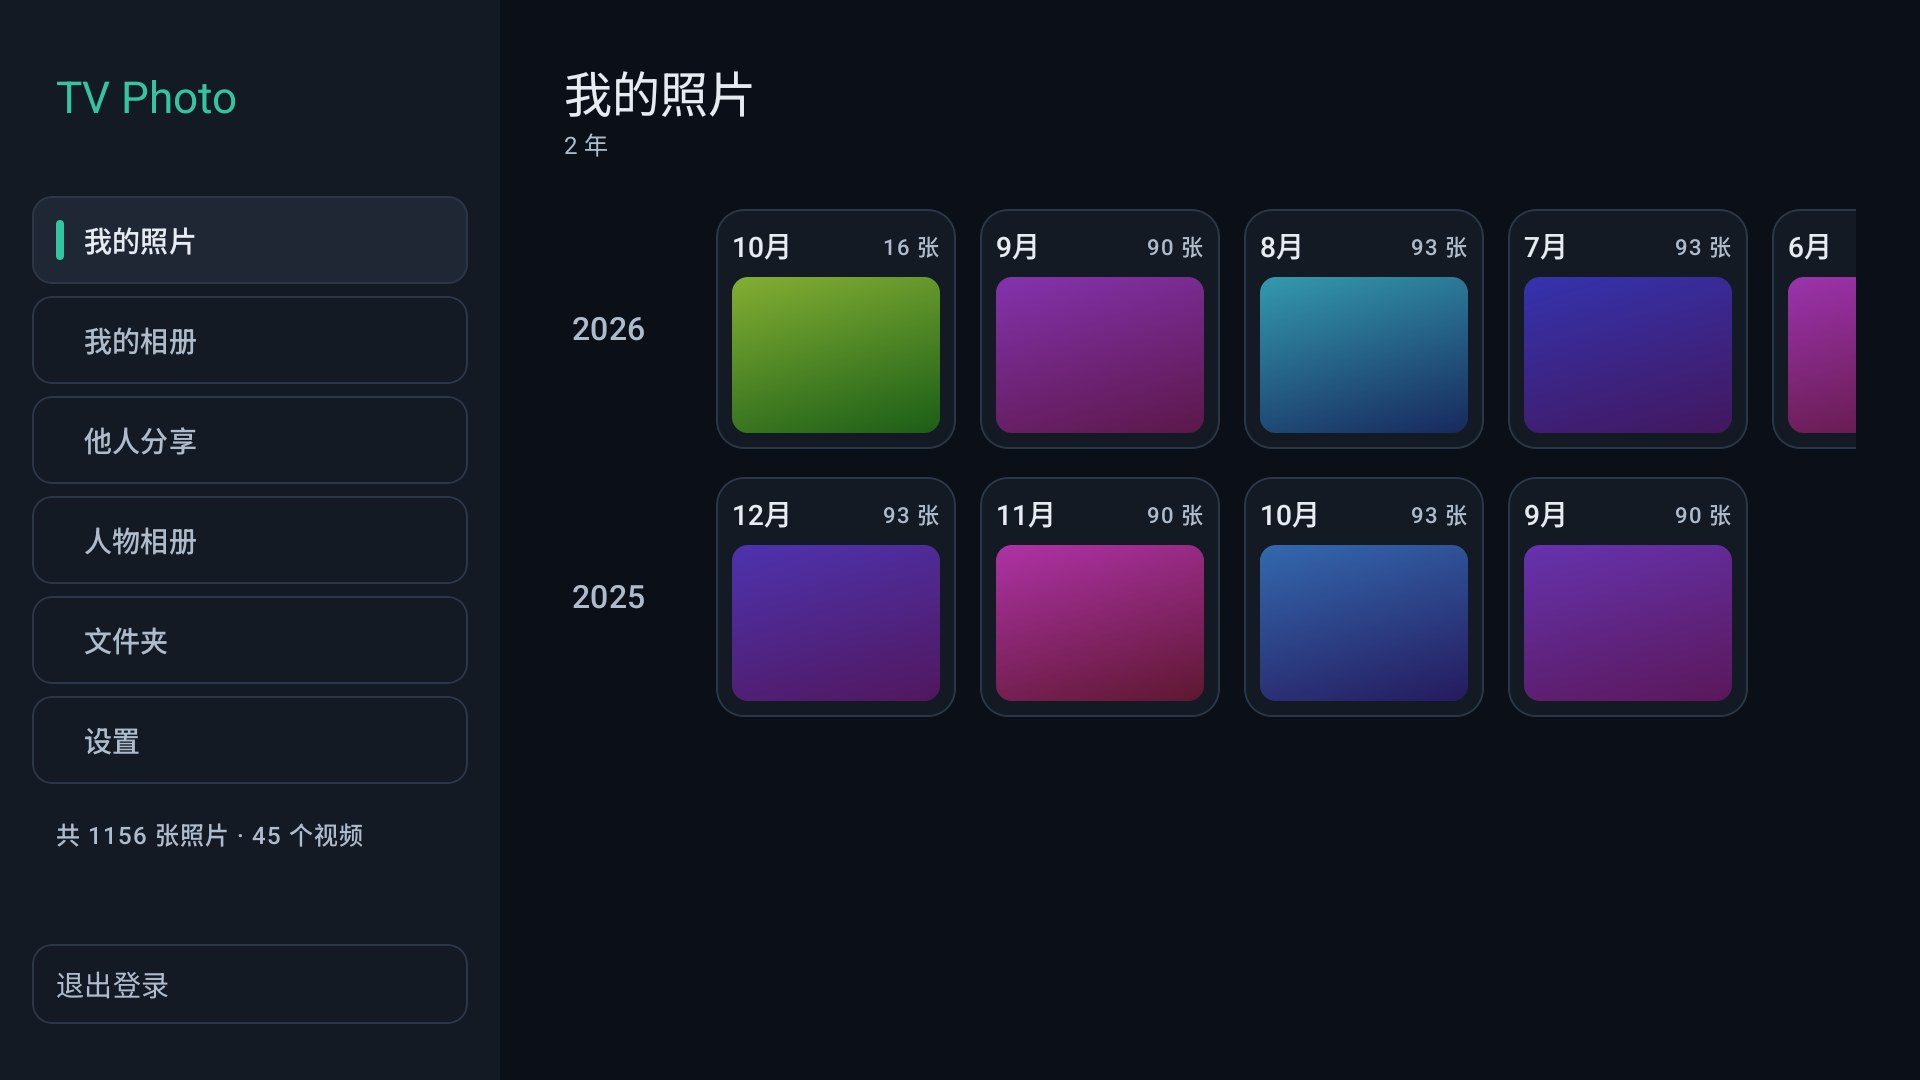
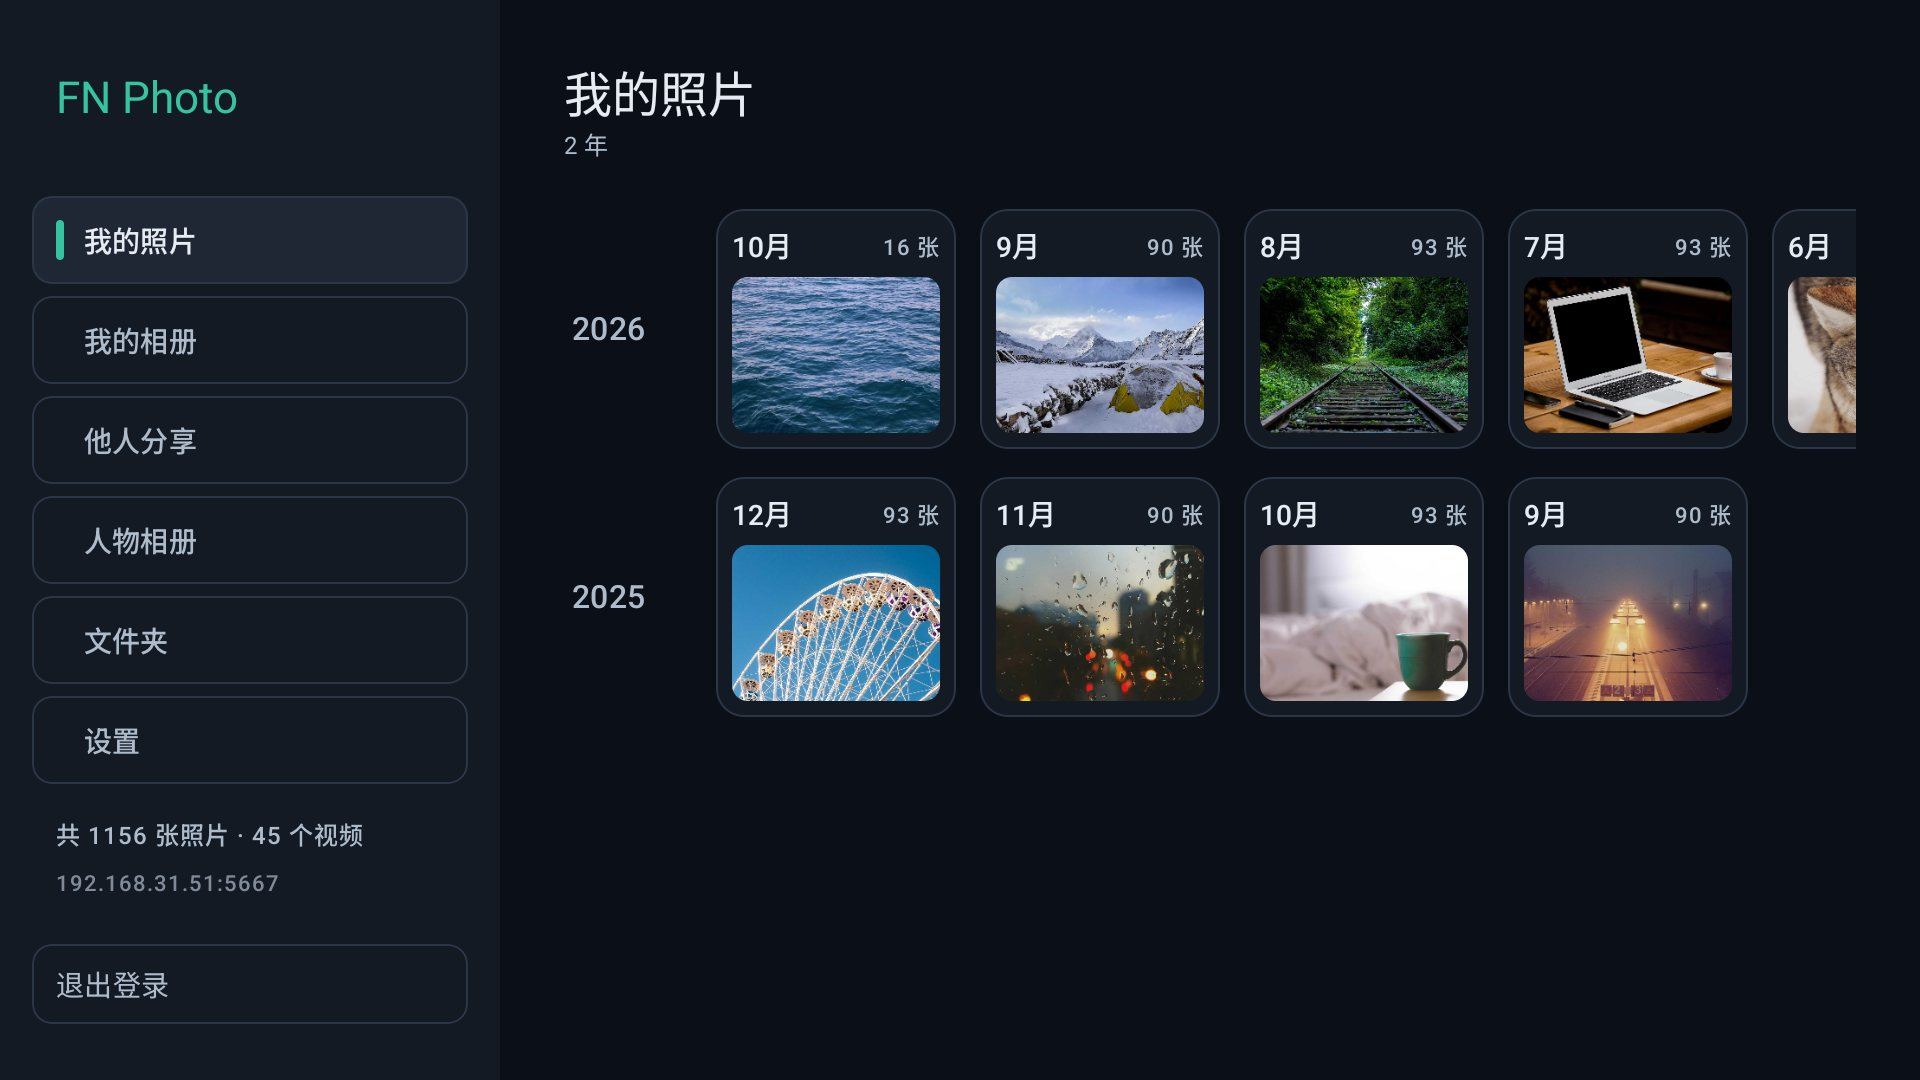
Refresh the forum post for FN Photo 1.2, with real photographs in the mock
The post's figures were regenerated against a mock that serves real photographs
rather than one painted gradient per photo, and the READMEs point at the new
files.

- docs/forum-post-fnnas.txt reworked around the 1.2 feature set
- 19 forum screenshots added, the five superseded ones removed
- fetch-photos.js added: it downloads one rendition per thumbnail size the mock
  advertises and writes manifest.json and CREDITS.md beside them
- the fetched renditions are ignored rather than committed (~12 MB, and the
  script is the source of truth); the mock falls back to gradients without them

diff --git a/tools/mock-nas/fetch-photos.js b/tools/mock-nas/fetch-photos.js
@@ -1,0 +1,232 @@
+'use strict';
+
+/*
+ * Downloads the mock NAS's test photos.
+ *
+ * The mock used to paint a gradient per photo id, which is fine for asserting that a
+ * thumbnail arrived and useless the moment a screenshot is meant to be shown to
+ * anyone. These are real photographs instead, so the emulator screenshots used in
+ * README.md and in the forum post look like a photo library.
+ *
+ *   node fetch-photos.js                    # fill in whatever is missing
+ *   node fetch-photos.js --count 60 --force # re-download everything
+ *   node fetch-photos.js --list-only        # just print what the catalogue holds
+ *
+ * Source: Lorem Picsum (https://picsum.photos), which serves Unsplash photographs.
+ * Licence: the Unsplash Licence — free to use, commercial or not, no permission and
+ * no attribution required (crediting the photographer is still good manners, so
+ * `CREDITS.md` is written next to the files). See CREDITS.md for per-photo sources.
+ *
+ * Every rendition is fetched from Picsum at the exact pixel size the mock advertises
+ * in SIZE_MAP, so nothing here needs an image library: Picsum does the cropping and
+ * the scaling, and we keep the bytes a real fnOS server would send for that size.
+ */
+
+const https = require('https');
+const fs = require('fs');
+const path = require('path');
+
+const PHOTO_DIR = path.join(__dirname, 'assets', 'photos');
+const MANIFEST = path.join(PHOTO_DIR, 'manifest.json');
+const CREDITS = path.join(PHOTO_DIR, 'CREDITS.md');
+
+// Mirror of SIZE_MAP in server.js. `o` is the original the viewer opens; the rest are
+// the server-side thumbnails a grid asks for.
+const SIZES = {
+  xxs: [107, 60],
+  xs: [320, 180],
+  s: [427, 240],
+  m: [960, 540],
+  o: [1280, 720],
+};
+
+// Square crop for the AI face-cluster avatars in the 人物 section.
+const FACE = [240, 240];
+
+// Landscape-or-better originals only: these land in a 16:9 grid, and a portrait
+// photo cropped to 16:9 throws away most of what the photographer framed.
+const MIN_ASPECT = 1.3;
+const MIN_WIDTH = 1600;
+
+function arg(name, fallback) {
+  const i = process.argv.indexOf(`--${name}`);
+  return i >= 0 && process.argv[i + 1] && !process.argv[i + 1].startsWith('--') ? process.argv[i + 1] : fallback;
+}
+const flag = (name) => process.argv.includes(`--${name}`);
+
+const COUNT = Number(arg('count', 60));
+const CONCURRENCY = Number(arg('concurrency', 6));
+const FORCE = flag('force');
+
+function get(url, { binary = false, redirects = 5 } = {}) {
+  return new Promise((resolve, reject) => {
+    const req = https.get(
+      url,
+      { headers: { 'User-Agent': 'tvphoto-mock-testdata/1.0 (+https://picsum.photos)' } },
+      (res) => {
+        if (res.statusCode >= 300 && res.statusCode < 400 && res.headers.location && redirects > 0) {
+          res.resume();
+          return resolve(get(new URL(res.headers.location, url).toString(), { binary, redirects: redirects - 1 }));
+        }
+        if (res.statusCode !== 200) {
+          res.resume();
+          return reject(new Error(`HTTP ${res.statusCode} for ${url}`));
+        }
+        const chunks = [];
+        res.on('data', (c) => chunks.push(c));
+        res.on('end', () => {
+          const buf = Buffer.concat(chunks);
+          resolve(binary ? buf : buf.toString('utf8'));
+        });
+      },
+    );
+    req.on('error', reject);
+    req.setTimeout(45000, () => req.destroy(new Error(`timeout for ${url}`)));
+  });
+}
+
+async function retry(label, fn, attempts = 4) {
+  let last;
+  for (let i = 1; i <= attempts; i++) {
+    try {
+      return await fn();
+    } catch (e) {
+      last = e;
+      if (i < attempts) await new Promise((r) => setTimeout(r, 400 * i));
+    }
+  }
+  throw new Error(`${label}: ${last.message}`);
+}
+
+/** The whole Picsum catalogue, in catalogue order, so the choice is reproducible. */
+async function catalogue() {
+  const all = [];
+  for (let page = 1; page <= 12; page++) {
+    const body = await retry(`list page ${page}`, () =>
+      get(`https://picsum.photos/v2/list?page=${page}&limit=100`));
+    const page_ = JSON.parse(body);
+    if (!page_.length) break;
+    all.push(...page_);
+  }
+  return all;
+}
+
+function pick(list, count) {
+  const usable = list.filter((p) => p.width / p.height >= MIN_ASPECT && p.width >= MIN_WIDTH);
+  if (usable.length <= count) return usable;
+  // Even stride rather than the first N: Picsum's catalogue is ordered by upload, and
+  // the first sixty entries are one photographer's afternoon.
+  const stride = usable.length / count;
+  const picked = [];
+  for (let i = 0; i < count; i++) picked.push(usable[Math.floor(i * stride)]);
+  return picked;
+}
+
+async function downloadOne(entry, dir) {
+  const jobs = [];
+  for (const [size, [w, h]] of Object.entries(SIZES)) {
+    const file = path.join(dir, `${size}.jpg`);
+    if (!FORCE && fs.existsSync(file) && fs.statSync(file).size > 1024) continue;
+    jobs.push(
+      retry(`${entry.id}/${size}`, async () => {
+        const buf = await get(`https://picsum.photos/id/${entry.id}/${w}/${h}.jpg`, { binary: true });
+        if (buf.length < 1024) throw new Error(`suspiciously small (${buf.length} bytes)`);
+        fs.writeFileSync(file, buf);
+        return buf.length;
+      }),
+    );
+  }
+  const faceFile = path.join(dir, 'face.jpg');
+  if (FORCE || !fs.existsSync(faceFile) || fs.statSync(faceFile).size < 1024) {
+    jobs.push(
+      retry(`${entry.id}/face`, async () => {
+        const buf = await get(`https://picsum.photos/id/${entry.id}/${FACE[0]}/${FACE[1]}.jpg`, { binary: true });
+        if (buf.length < 1024) throw new Error(`suspiciously small (${buf.length} bytes)`);
+        fs.writeFileSync(faceFile, buf);
+        return buf.length;
+      }),
+    );
+  }
+  await Promise.all(jobs);
+  // A directory that claims to be complete must actually be complete: a half-filled
+  // one is served happily by server.js and shows up as a broken tile in a screenshot.
+  const missing = Object.keys(SIZES).filter((s) => !fs.existsSync(path.join(dir, `${s}.jpg`)));
+  if (missing.length) throw new Error(`${entry.id}: missing ${missing.join(', ')}`);
+  if (!fs.existsSync(faceFile)) throw new Error(`${entry.id}: missing face.jpg`);
+}
+
+function writeCredits(entries) {
+  const lines = [
+    '# Test photos',
+    '',
+    'Real photographs served by `tools/mock-nas` in place of the old per-id gradient, so the',
+    'emulator screenshots in `README.md` and `artifacts/forum/` look like a photo library.',
+    '',
+    '**Source:** [Lorem Picsum](https://picsum.photos) (photographs from [Unsplash](https://unsplash.com)).',
+    '**Licence:** the [Unsplash Licence](https://unsplash.com/license) — free to use for commercial and',
+    'non-commercial purposes, no permission or attribution required. Credit is given below anyway.',
+    '',
+    'Downloaded at the exact pixel sizes the mock advertises (`xxs` 107×60, `xs` 320×180,',
+    '`s` 427×240, `m` 960×540, `o` 1280×720, plus a 240×240 square for the face-cluster',
+    'avatars), so the bytes on the wire are the ones a real server would send for that size.',
+    '',
+    '| # | Picsum id | Photographer | Source |',
+    '| --- | --- | --- | --- |',
+  ];
+  entries.forEach((e, i) => lines.push(`| ${i + 1} | ${e.id} | ${e.author} | ${e.url} |`));
+  lines.push('', `Regenerate with \`node fetch-photos.js\` (see the header of that script).`, '');
+  fs.writeFileSync(CREDITS, lines.join('\n'), 'utf8');
+}
+
+(async () => {
+  fs.mkdirSync(PHOTO_DIR, { recursive: true });
+  const all = await catalogue();
+  const chosen = pick(all, COUNT);
+  console.log(`catalogue ${all.length}, landscape ${all.filter((p) => p.width / p.height >= MIN_ASPECT && p.width >= MIN_WIDTH).length}, chosen ${chosen.length}`);
+
+  if (flag('list-only')) {
+    chosen.forEach((e) => console.log(`${e.id}\t${e.author}\t${e.url}`));
+    return;
+  }
+
+  let done = 0;
+  let failed = 0;
+  const queue = chosen.slice();
+  const workers = Array.from({ length: CONCURRENCY }, async () => {
+    for (;;) {
+      const entry = queue.shift();
+      if (!entry) return;
+      const dir = path.join(PHOTO_DIR, String(entry.id));
+      try {
+        fs.mkdirSync(dir, { recursive: true });
+        await downloadOne(entry, dir);
+        done++;
+        process.stdout.write(`\r  ${done + failed}/${chosen.length}  id ${entry.id} by ${entry.author}          `);
+      } catch (e) {
+        failed++;
+        fs.rmSync(dir, { recursive: true, force: true });
+        console.log(`\n  FAILED id ${entry.id}: ${e.message}`);
+      }
+    }
+  });
+  await Promise.all(workers);
+  process.stdout.write('\n');
+
+  const kept = chosen.filter((e) => fs.existsSync(path.join(PHOTO_DIR, String(e.id), 'o.jpg')));
+  fs.writeFileSync(
+    MANIFEST,
+    JSON.stringify({ source: 'https://picsum.photos', licence: 'Unsplash Licence', count: kept.length, photos: kept }, null, 2) + '\n',
+    'utf8',
+  );
+  writeCredits(kept);
+
+  const bytes = kept.reduce((sum, e) => {
+    const dir = path.join(PHOTO_DIR, String(e.id));
+    return sum + fs.readdirSync(dir).reduce((s, f) => s + fs.statSync(path.join(dir, f)).size, 0);
+  }, 0);
+  console.log(`  ${kept.length} usable photos, ${(bytes / 1048576).toFixed(1)} MB, manifest + CREDITS.md written`);
+  if (failed) {
+    console.log(`  ${failed} failed — rerun to fill the gaps`);
+    process.exitCode = 1;
+  }
+})();

diff --git a/README.md b/README.md
@@ -6,7 +6,7 @@
 
 它对接的是飞牛相册自己的接口 —— 也就是官方 App 用的那一套 —— 所以拿到的是真正的时间线、相册、文件夹、服务端缩略图、Live Photo 和视频串流，而不是把 NAS 当成一个笨拙的文件共享。
 
-![时间线](artifacts/screenshots/22-autologin-restart.png)
+![时间线](artifacts/screenshots/forum-01-timeline.png)
 
 ## 功能
 
@@ -146,6 +146,8 @@ tools/
   mock-nas/           一个强制实施真实认证规则的飞牛模拟服务器，另有
                       若干开关用于制造与时间和变更相关的行为
                       （慢速媒体、增删照片、固定某种签名规则）
+    fetch-photos.js   拉取它要发的测试照片（真照片，不是渐变色块）
+    assets/photos/    这些照片本身，按每种缩略图尺寸各存一份，附 CREDITS.md
 docs/fnos-photo-api.md   逆向出来的协议，附证据
 ```
 
@@ -153,7 +155,7 @@ docs/fnos-photo-api.md   逆向出来的协议，附证据
 
 在这里没有办法拿封闭协议对着真机做单元测试，所以验证是刻意搭起来的：
 
-1. **一个真正强制实施规则的飞牛模拟服务器** —— `tools/mock-nas`。和参考项目自带的 mock 不同，它会校验 `authx` 签名、拒绝数字形式的 `si`，并且可以在运行时被固定到任一签名规则。它同时提供**两种**传输：5666 上的明文（`verify.js` 驱动的就是它，也是最容易直接读原始流量的）和 **5667** 上的 TLS，用的是自签名 `O=fnOS CN=fnOS` 证书、`subjectAltName` 为 `DNS:fnOS` —— 与真实 NAS 呈现的形状一致，所以客户端的首次使用信任路径是被真正走了一遍，而不是绕过。把应用指向 `10.0.2.2:5667` 即可对着这个 mock 运行。
+1. **一个真正强制实施规则的飞牛模拟服务器** —— `tools/mock-nas`。和参考项目自带的 mock 不同，它会校验 `authx` 签名、拒绝数字形式的 `si`，并且可以在运行时被固定到任一签名规则。它同时提供**两种**传输：5666 上的明文（`verify.js` 驱动的就是它，也是最容易直接读原始流量的）和 **5667** 上的 TLS，用的是自签名 `O=fnOS CN=fnOS` 证书、`subjectAltName` 为 `DNS:fnOS` —— 与真实 NAS 呈现的形状一致，所以客户端的首次使用信任路径是被真正走了一遍，而不是绕过。把应用指向 `10.0.2.2:5667` 即可对着这个 mock 运行。它发的照片是 `tools/mock-nas/assets/photos/` 里那 60 张**真照片**（`node fetch-photos.js` 拉的，Unsplash 授权，来源逐张记在旁边的 `CREDITS.md` 里）—— 从前的 mock 是一张照片一个渐变色块，断言缩略图有没有到达够用，但那样的截图没法拿给人看。
 2. **一个独立的参考客户端** —— `tools/mock-nas/verify.js` 从零重新实现该协议，断言匹配的那条规则被接受、不匹配的那条以 `5000` 被拒绝，并断言登录握手在 TLS 端口上的 `wss` 可用。在相信任何从 mock 得出的结论之前先跑它：
 
    ```powershell

diff --git a/README.en.md b/README.en.md
@@ -9,7 +9,7 @@ It talks to the fnOS photo gallery's own API — the same one the official app u
 so it gets the real timeline, albums, folders, server-side thumbnails, Live Photos
 and video streaming, rather than treating the NAS as a dumb file share.
 
-![Timeline](artifacts/screenshots/22-autologin-restart.png)
+![Timeline](artifacts/screenshots/forum-01-timeline.png)
 
 ## What it does
 
@@ -355,6 +355,8 @@ tools/
   mock-nas/           a mock fnOS server that enforces the real auth rules, plus
                       controls for timing- and change-dependent behaviour
                       (slow media, add/delete a photo, pin a signing rule)
+    fetch-photos.js   fetches the test photos it serves (real photographs, not gradients)
+    assets/photos/    those photos, one rendition per advertised thumbnail size, plus CREDITS.md
 docs/fnos-photo-api.md   the reverse-engineered protocol, with evidence
 ```
 
@@ -370,7 +372,11 @@ verification was built deliberately:
    read raw traffic from) and TLS on **5667**, with a self-signed `O=fnOS CN=fnOS`
    certificate whose `subjectAltName` is `DNS:fnOS` — the same shape a real NAS presents,
    so the client's first-use trust path is exercised rather than bypassed. Point the app at
-   `10.0.2.2:5667` to run it against the mock.
+   `10.0.2.2:5667` to run it against the mock. The photos it serves are the 60 **real
+   photographs** in `tools/mock-nas/assets/photos/` (`node fetch-photos.js` downloads them;
+   the Unsplash Licence and a per-photo source list live in the `CREDITS.md` beside them) —
+   the mock used to paint one gradient per photo, which is enough to assert that a thumbnail
+   arrived and useless in a screenshot anyone else is meant to look at.
 2. **An independent reference client** — `tools/mock-nas/verify.js` re-implements the
    protocol from scratch and asserts that the matching rule is accepted while the
    non-matching one is rejected with `5000`, plus that the login handshake works over
